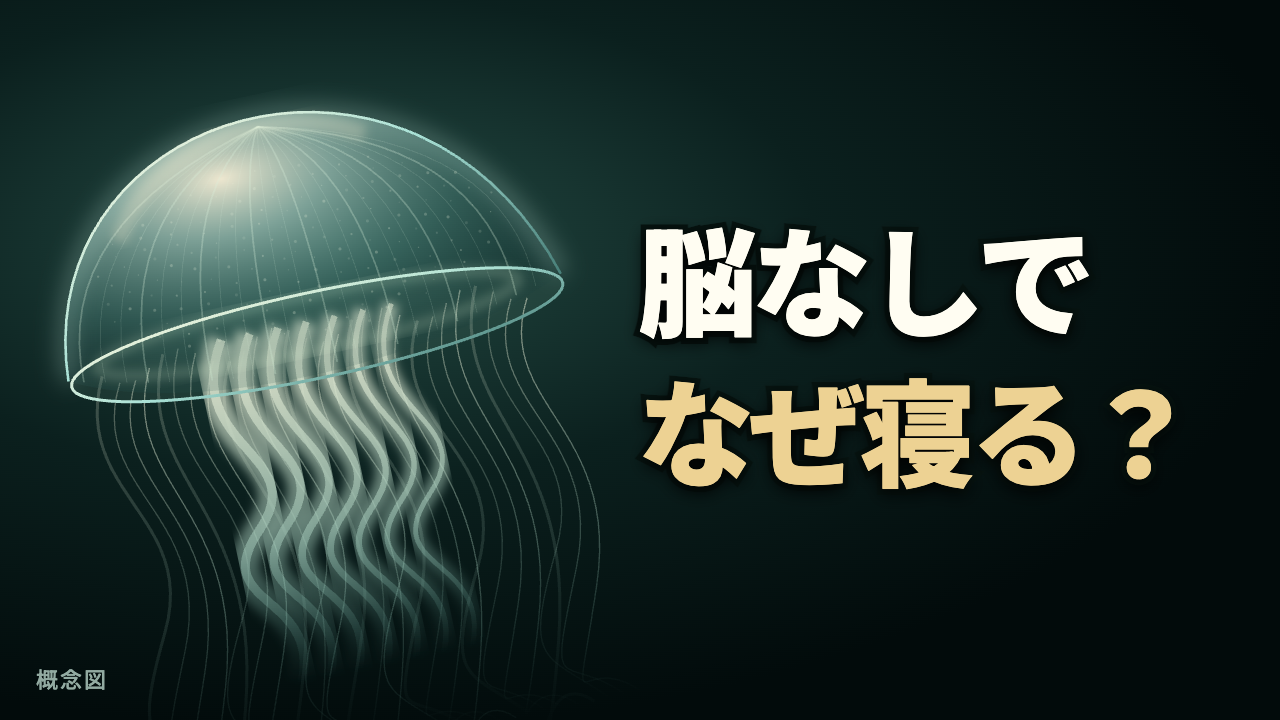
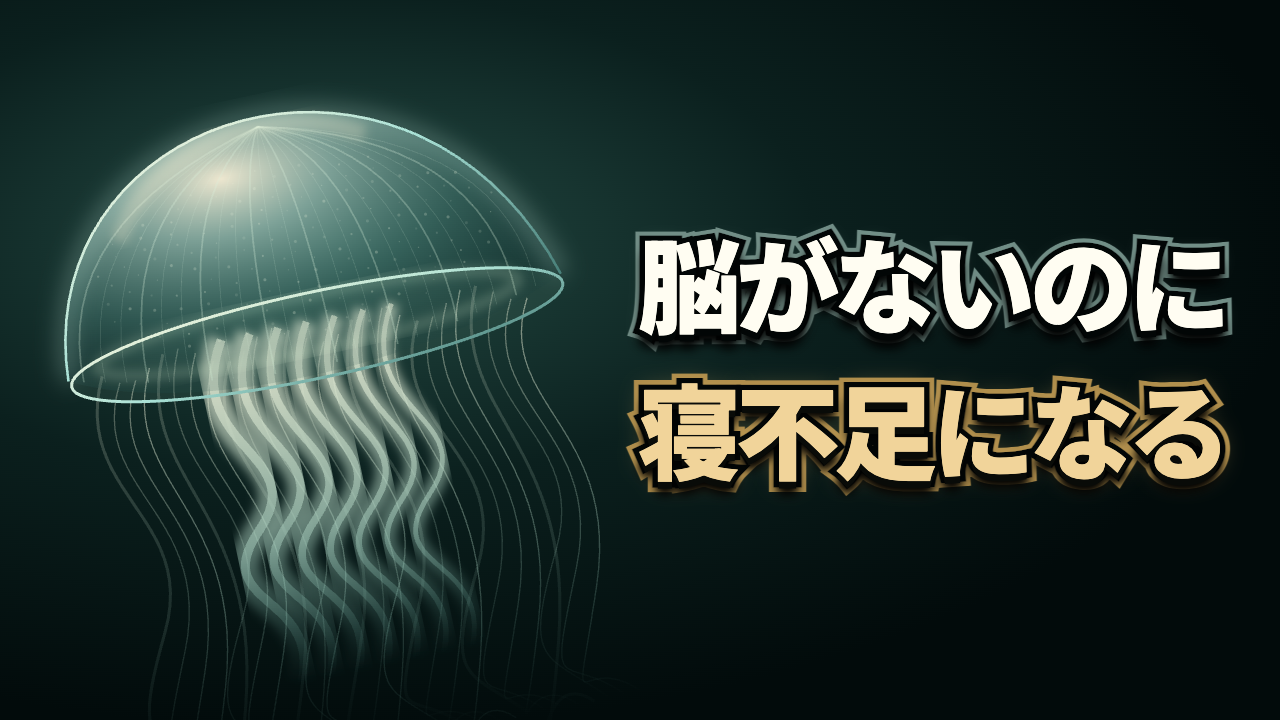
Strengthen thumbnail curiosity and lettering; remove concept label

Changed region(s): [[0.4688, 0.5194, 0.9688, 0.7028], [0.4688, 0.3056, 0.9688, 0.4889], [0.0312, 0.9167, 0.0938, 0.9778]]

diff --git a/video/src/Thumbnail.tsx b/video/src/Thumbnail.tsx
@@ -55,15 +55,16 @@ export const Thumbnail: React.FC<EpisodeScript> = ({thumbnail}) => {
   const lettering: React.CSSProperties = {
     position:'absolute', left:638, margin:0, fontFamily:fontBody,
     fontWeight:900, lineHeight:1.22, letterSpacing:-5, whiteSpace:'nowrap',
-    WebkitTextStroke:'12px #061310', paintOrder:'stroke fill',
-    textShadow:'0 5px 18px #000',
+    WebkitTextStroke:'12px #020606', paintOrder:'stroke fill',
+    textShadow:'0 7px 0 #020606, 0 13px 14px #000',
   };
   return (
     <AbsoluteFill style={{background:'radial-gradient(ellipse at 26% 33%, #254c45 0%, #0b201e 36%, #020b0b 72%)', overflow:'hidden'}}>
       <div style={{position:'absolute', left:-6, top:5}}><Jellyfish /></div>
-      <div style={{...lettering, top:204, fontSize:119, color:'#fffdf2'}}>{thumbnail.line1}</div>
-      <div style={{...lettering, top:357, fontSize:116, color:'#edd293'}}>{thumbnail.line2}</div>
-      <div style={{position:'absolute', left:36, bottom:26, fontFamily:fontBody, fontSize:22, color:'#92aaa1', letterSpacing:2}}>概念図</div>
+      <div aria-hidden style={{...lettering, top:219, fontSize:103, color:'#fffdf2', WebkitTextStroke:'20px #708c85', textShadow:'0 0 15px #83a99a66, 0 12px 10px #000'}}>{thumbnail.line1}</div>
+      <div style={{...lettering, top:219, fontSize:103, color:'#fffdf2'}}>{thumbnail.line1}</div>
+      <div aria-hidden style={{...lettering, top:365, fontSize:103, color:'#f1d49a', WebkitTextStroke:'21px #ac8b4a', textShadow:'0 0 23px #e6bc686e, 0 12px 12px #000'}}>{thumbnail.line2}</div>
+      <div style={{...lettering, top:365, fontSize:103, color:'#f1d49a', textShadow:'0 7px 0 #090b08, 0 11px 10px #000'}}>{thumbnail.line2}</div>
     </AbsoluteFill>
   );
 };

diff --git a/episodes/001-sleep-without-brain/06b_thumbnail_benchmark.md b/episodes/001-sleep-without-brain/06b_thumbnail_benchmark.md
@@ -17,22 +17,59 @@
 1. 暗い背景と局所光で主役を大きく浮かせる。黒緑背景に半透明のクラゲの傘を大きく置く。
 2. 説明を詰めず主文言2行に絞る。白＋一色の強調、Noto Sans JP 900・黒フチで320pxの可読性を確保。
 3. 主役と文字を重ねすぎず余白で分ける。左側に主役、右側に文言。右下の時間表示域は空ける。
-4. 生物の姿と短い言葉の矛盾で好奇心を作る。「脳なしで／なぜ寝る？」（9字）。
+4. 生物の姿と短い言葉の矛盾で好奇心を作る。「脳がないのに／寝不足になる」（12字）。
 
 ## 見て分かる差別化
 1. 参考の多くの「右主役・左下文字」を反転。左にクラゲの傘と触手、右中央に問い。
-2. 赤・マゼンタの強い煽りを使わず、白＋淡い琥珀色の問い、黒緑と真珠色の生体表現へ。
-3. 怪物・危険・禁忌ではなく静かな睡眠の不思議を入口にする。顔・帽子・Zzz・太い漫画輪郭を廃止。睡眠は主文言「寝る？」が明示する（旧指示の漫画的睡眠記号より最新のトーン指定を優先）。
+2. 赤・マゼンタの強い煽りを使わず、白＋淡い琥珀色の逆説、黒緑と真珠色の生体表現へ。
+3. 怪物・危険・禁忌ではなく静かな睡眠の不思議を入口にする。顔・帽子・Zzz・太い漫画輪郭を廃止。睡眠は主文言「寝不足」が明示する（旧指示の漫画的睡眠記号より最新のトーン指定を優先）。
 
 ## 事実・権利・実装
-- 自作SVGによる一般化したクラゲの概念図。実験写真・特定種の精密復元・データ可視化を装わない。小さく「概念図」と明記。
-- クラゲに脳がなく睡眠様状態があることは01_research.mdの2017年研究および本編jellyfishで回収。問いの答えを確定しない。タイトルの「眠る」「脳より先」は重複させない。
+- 自作SVGによる一般化したクラゲの概念図。実験写真・特定種の精密復元・データ可視化を装わない。画像内ラベルは最新ユーザー指示で削除。自作の科学的イメージであることは本記録で明記。
+- クラゲに脳がなく睡眠様状態があることは01_research.mdの2017年研究および本編jellyfishで回収。主観的な眠気・疲労の証明とは解釈しない。タイトルの「眠る」「脳より先」は重複させない。
 - 新規API・画像生成・キー・有料素材・Actionsは使用しない。既存OFLフォントのみ。
 - 本編・既存Iconsの変更なし。サムネ専用コンポーネント、thumbnailブロック、本文書、出力PNGのみ。
 - Claude再監査は未実施。自己検査は承認ではない。
 
 ## 実施済み検査
 - `npx tsc --noEmit` 成功。既存Mac Chromeで `npm run render -- 001-sleep-without-brain --thumb-only` 成功。
-- 出力1280×720と320×180を画像ピクセルで実見。文言2行9字、全字判読可能、傘と触手を識別、右下に重要要素なし。顔・帽子・漫画輪郭・不要な装飾なし。
+- 出力1280×720と320×180を画像ピクセルで実見。初版文言2行9字、全字判読可能、傘と触手を識別、右下に重要要素なし。顔・帽子・漫画輪郭・不要な装飾なし。
 - git diff --check 成功。許可4ファイルのみ。script.jsonのthumbnail以外はJSON一致。本編は未編集。
 - 旧指示の睡眠記号は顔・帽子を廃止したため未使用。睡眠は文言で伝達。写実写真ではなく立体感のある概念図であり、その適否はClaude再監査待ち。
+
+
+## コピー改訂・再監査提出（2026-10-10）
+最新確認head：8a81c713b78bba0fad82bea4d7cd43d4450df4b9。PR最新の社長追加指示（issuecomment-6098811017）を確認。前版bb9f508の合格は今回のコピー改訂には引き継がない。今回もClaude再監査待ち。STATUS等の監査担当ファイルは変更しない。
+
+### 内部候補の比較
+|候補|視聴者が想定する常識|裏切る点|続きを見て知りたいこと|判定|
+|---|---|---|---|---|
+|脳なしで／なぜ寝る？（旧）|睡眠は脳を休めるもの|脳のない生物も寝る|睡眠の目的|説明的で抽象的。ユーザー差し戻し|
+|脳がないのに／寝不足になる（12字）|寝不足は脳を持つ人間などの問題|脳がないクラゲにも睡眠を妨げた翌日の変化|脳がないのに何が不足するのか、どう実験したのか|採用。身近な寝不足と異質な生物の衝突が明快|
+|脳がないのに／徹夜でダウン（12字）|脳がなければ徹夜でも平気そう|翌日ダウンする|どんなダウンか|不採用。倒れる・動けなくなると誤認させ、研究結果を強める|
+|脳なしなのに／寝だめする（11字）|睡眠の補償は脳の働き|脳のない生物が補償する|何を取り戻しているのか|不採用。寝だめは事前に蓄える意味にも取れ、本編の約束を超える|
+
+採用案より強く、かつ事実・本編と整合する代替は今回見つからなかった。CTR改善は仮説であり、実測・保証・A/Bテスト結果はない。
+
+### 一次資料と本編の回収
+[Nath et al. 2017 原著の抄録・図説明（PubMed）](https://pubmed.ncbi.nlm.nih.gov/28943083/) を2026-10-10に確認。夜間の休止を妨げると翌日に活動および感覚刺激への反応性が低下し、休止状態の恒常性調節と整合する、と報告している。
+ここでの「寝不足」は、睡眠様状態を妨げた後の行動変化を短く伝える一般向け表現。主観的な疲労感・眠気・苦痛を測定したという意味ではない。クラゲ全種や人間との同一性を証明したとはしない。概念図ラベルは最新指示で削除するが、特定種の実験写真とは扱わない。
+本編jellyfish（開始42.5秒、18.5秒間）のナレーションは「さらに夜に休ませないと、翌日の動きが落ちました。まるで寝不足の人間のようです」。タイトルは起源、本コピーは睡眠剥奪後の意外な行動という役割分担。本編は一切変更せず回収できる。
+
+### 再レイアウト
+2行各6字、計12字。右側の文字のみ103pxへ調整（320px換算25.75px）。文字領域・行間を調整し、左のクラゲSVG、暗緑背景、局所光、白＋淡い琥珀色は維持。顔・帽子・装飾は追加しない。
+
+### コピー改訂の検査結果
+- tsc成功、サムネのみ再レンダー成功。1280×720／320×180を実見し、2行12字の全字・右端余白・主役との分離・右下表示域を確認。
+- クラゲSVG部分は前版と文字列完全一致。本編JSONはthumbnail以外で一致。差分は許可4ファイルのみ。git diff --check成功。
+- コピーの効果は未測定。Claude再監査を経るまで完成・合格と扱わない。
+
+
+### 追加のユーザー指示を反映（同じコピー改訂内）
+- 左下「概念図」ラベルは不要との明示指示により削除。画像内に注記を強制しない。図版は自作SVGの科学的イメージであり、原著の実験写真・データ・特定種の精密復元ではない。
+- 「文字の外枠や演出がなくシンプルすぎる」への対応：黒い内フチ12pxに銀緑／琥珀の外フチ20〜21pxを重ね、段差の影で奥行きを付与。第2行に限定した琥珀色の柔らかな発光を加える。新しい棒・記号・背景装飾・漫画の睡眠記号は使わない。
+- 前項の初回再レイアウト後に受領した追加指示であり、下記最終検査で再確認する。Library version 3はコピーのみの途中保存版。最終の再監査対象は追加装飾・ラベル削除後のPNG。
+
+### 追加指示反映後の最終検査
+- tsc・サムネのみレンダー再成功。1280×720／320×180のピクセルを再実見。概念図ラベルなし、2行12字が判読でき、二重フチ・影・琥珀の光が見える。右端の余白を確保、右下に重要要素なし。
+- クラゲSVGは変更前と完全一致。本編JSON不変。最新基点8a81c71から許可4ファイルのみ、diff --check成功。合格判定は付けずClaude再監査へ提出。
